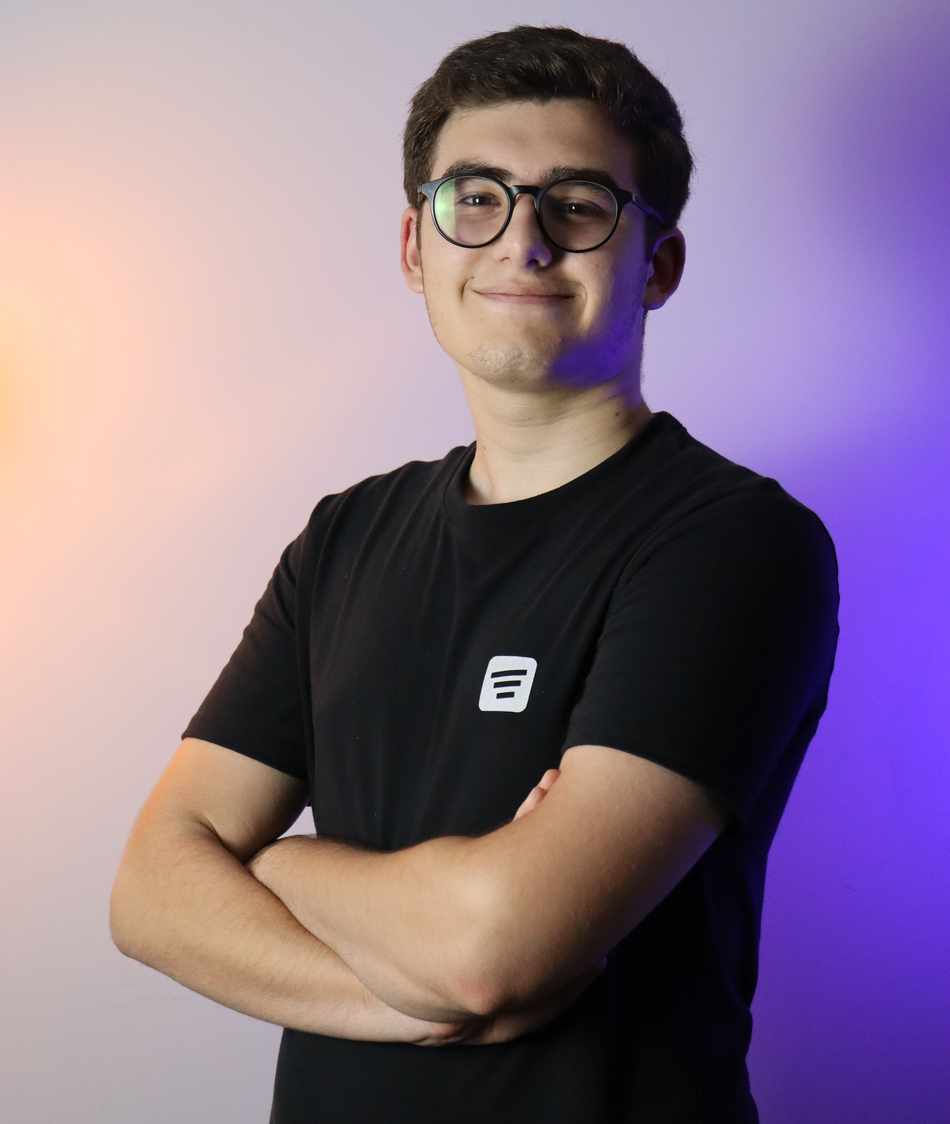
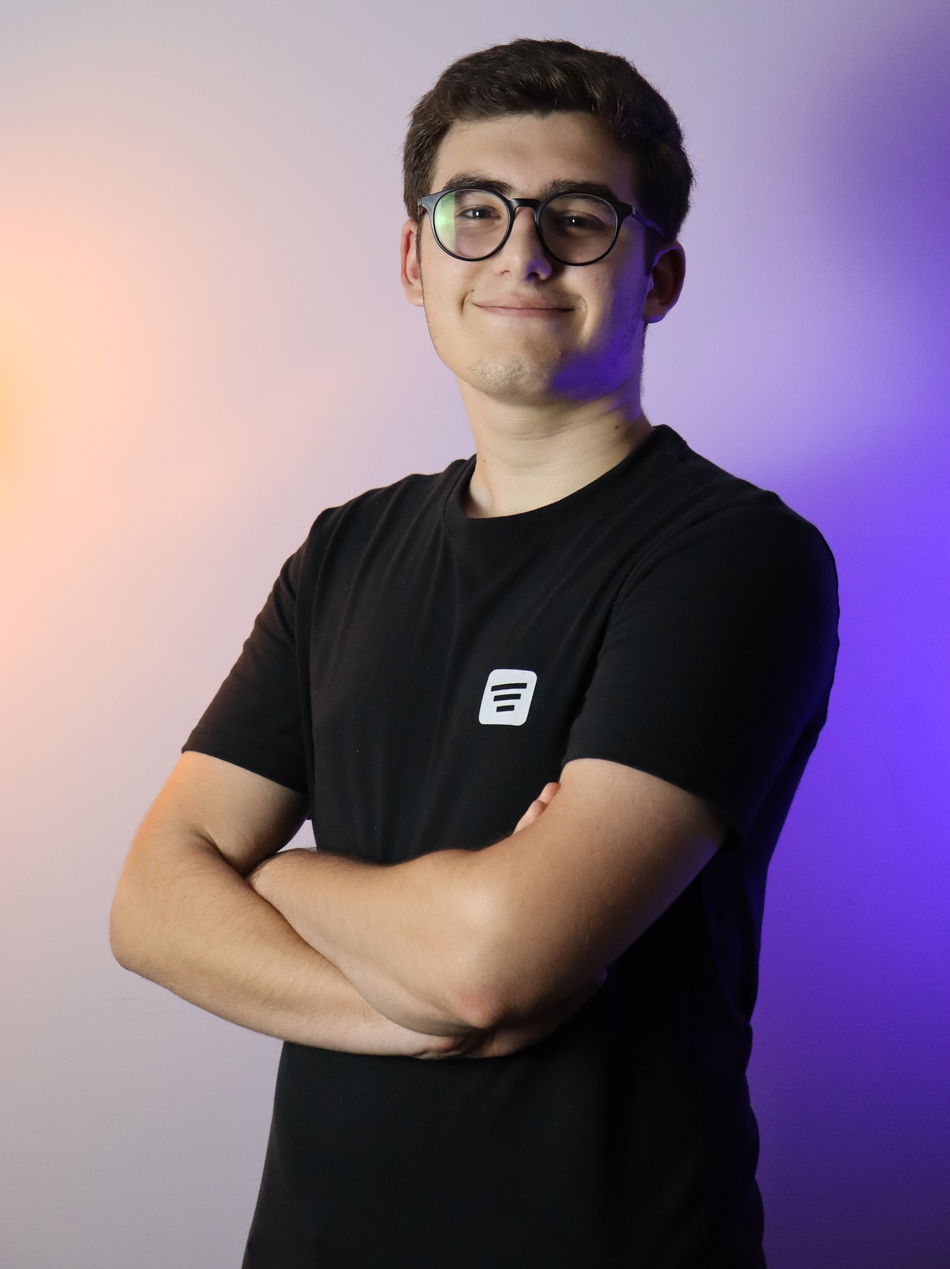
feat: style the image and the about me

Changed region(s): [[0.0938, 0.0625, 1.0, 1.0], [0.4688, 0.0, 0.6875, 0.0625], [0.625, 0.5312, 0.6562, 0.5625]]

diff --git a/src/frontend/style/portfolio.css b/src/frontend/style/portfolio.css
@@ -140,23 +140,42 @@
 #info_container{
     display: flex;
     justify-content: center;
+    align-items: center;
 }
 
 #info{
-    width: 70%;
+    width: 80%;
     margin-top: 2vh;
     display: flex;
+    flex-direction: column;
+    align-items: center;
+    justify-content: center;
+}
+
+#image_container{
+    display: flex;
+    justify-content: center;
+    vertical-align: middle;
+    min-width: 200px;
+    min-height: 300px;
+    max-width: 250px;
+    max-height: 300px;
 }
 
 #image{
-    /* object-fit: cover; */
-    border-radius: 50%;
-    max-width: 50vw;
-    max-height: 50vh;
-    min-width: 300px;
-    min-height: 300px;
-    width: auto;
-    height: auto;
+    width: 100%;
+    object-fit: cover;
+    object-position: top;
+    border-radius: 10px;
+    image-rendering: auto;
+}
+
+#about_me{
+    display: flex;
+    justify-content: center;
+    min-width: 200px;
+    max-width: 400px;
+    font-size: 20px;
 }
 
 @media (min-width: 769px){
@@ -177,4 +196,13 @@
     #menu_container{
         display: none;
     }
+
+    #info{
+        margin-top: 5vh;
+        display: flex;
+        flex-direction: row;
+        justify-content: space-evenly;
+    }
+
 }
+

diff --git a/src/frontend/public/index.html b/src/frontend/public/index.html
@@ -59,7 +59,7 @@
                         <div id="info">
                             <div id="image_container">
                                 <img id="image" src="../../../assets/images/IMG_2345.JPG">
-                            </div>
+                            </div>                            
                             <div id="about_me">
                                 <p>Meu nome é Gustavo Floriano, atualmnente tenho 18 anos. E recentemente concluí
                                     meu Ensino Médio e curso Técnico em Desenvolvimento de Sistemas pelo SENAI.
